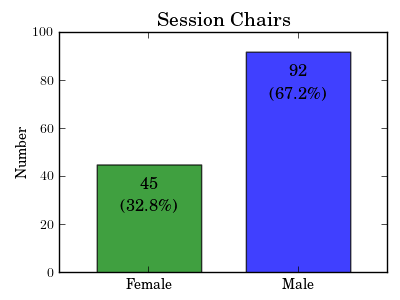
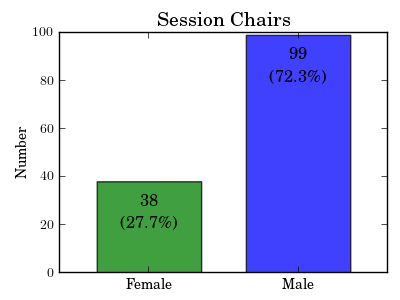
spotted a bug. regenerated data + plots from schedule

Changed region(s): [[0.6, 0.09, 0.9, 0.33], [0.24, 0.54, 0.51, 0.78]]

diff --git a/gender_from_schedule.py b/gender_from_schedule.py
@@ -21,16 +21,16 @@ extras = ascii.read( "extra_names.csv" )
 def get_gender( name ):
     
     # find name in male and female lists
-    wm = where( male["name"] == name )
-    wf = where( female["name"] == name )
+    wm = where( male["name"] == name )[0]
+    wf = where( female["name"] == name )[0]
     
-    if not size( wm ) and not size( wf ):                   # name not found
+    if not wm and not wf:                                   # name not found
         gender= "x"
         wh = where( extras["name"] == name )
         if extras[wh]["gender"] == "m" or extras[wh]["gender"] == "f":
             gender = extras[wh]["gender"]
-    elif size( wm ) == 0: gender = "m"                      # only in male
-    elif size( wf ) == 0: gender = "f"                      # only in female
+    elif not wf: gender = "m"                               # only in male
+    elif not wm: gender = "f"                               # only in female
     elif male[wm]["nm"] > female[wf]["nf"]: gender = "m"    # both, more male
     elif male[wm]["nm"] < female[wf]["nf"]: gender = "f"    # both, more female
     else: gender = "e"                                      # error
